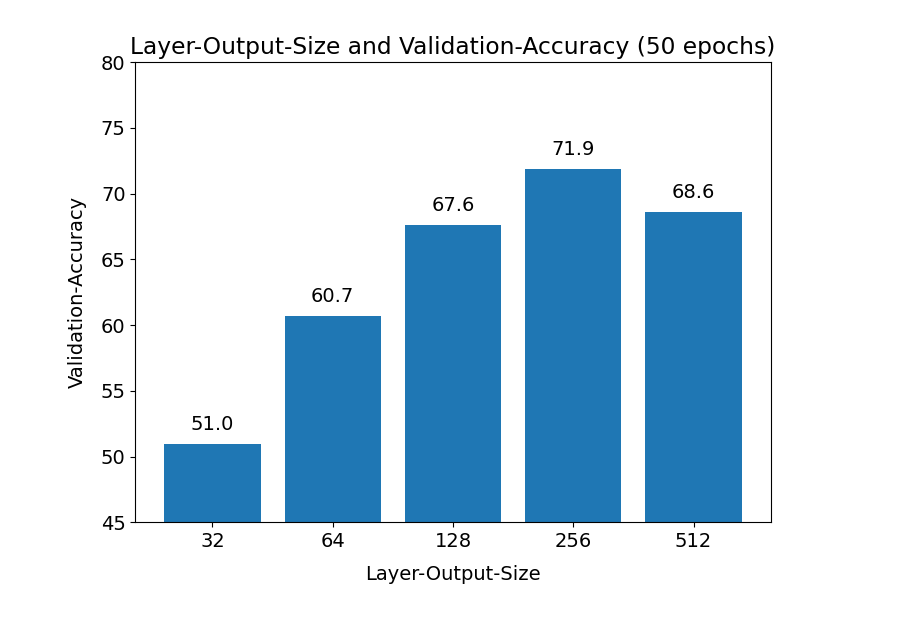
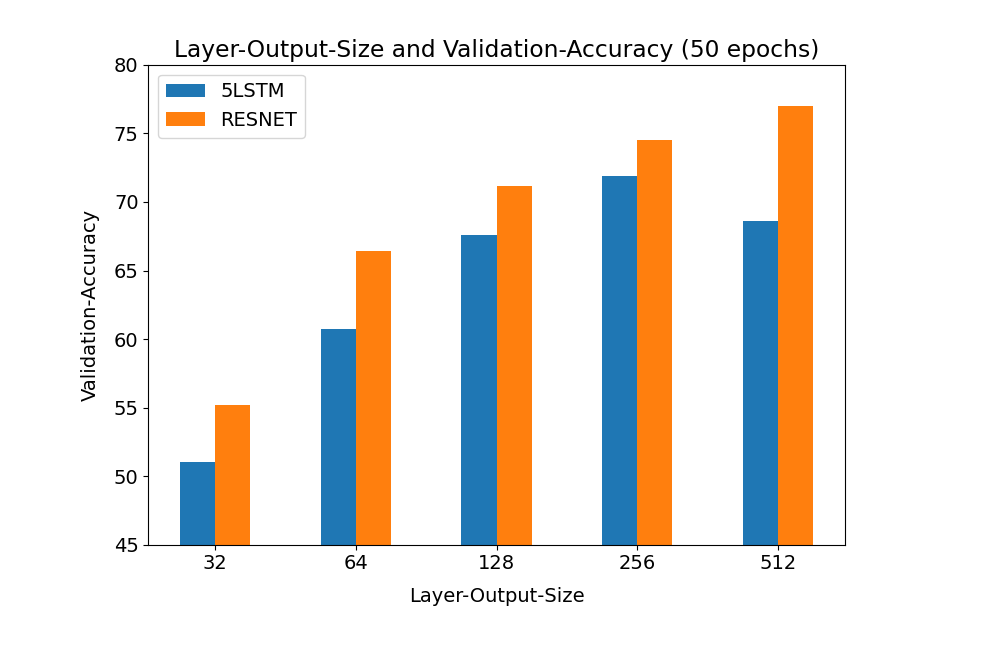
Updated UNIT-Graph

diff --git a/train_mfcc.py b/train_mfcc.py
@@ -42,7 +42,7 @@ WINDOW_SIZE = 0.8
 WINDOW_STEP = 0.1
 
 # Units for Training
-UNITS = 32
+UNITS = 256
 
 NUMCEP = 13
 NUMFILT = 26
@@ -58,36 +58,13 @@ PATH_WEIGHTS = "/home/smu/Desktop/RNN/temp/"
 # class_names
 CLASSNAMES = ['Wut', 'Langeweile', 'Ekel', 'Angst', 'Freude', 'Trauer', 'Neutral']
 
-os.chdir("/home/smu/Desktop/RNN/audiodata/own_sixseconds")
-
-print("Generating features from own recordings ...")
-
-for aud in tqdm(glob.glob("*.wav")):
-    (rate,sig) = wav.read(aud)
-    mfcc_feat = mfcc(sig, rate, numcep=NUMCEP, nfilt=NUMFILT, winlen=WINDOW_SIZE, winstep=WINDOW_STEP, nfft=NFFT, preemph=PREEMPH)
-    emotion = "N"
-    if "W" in aud:
-        emotion = "W"
-    elif "L" in aud:
-        emotion = "L"
-    elif "E" in aud:
-        emotion = "E"
-    elif "A" in aud:
-        emotion = "A"
-    elif "F" in aud:
-        emotion = "F"
-    elif "T" in aud:
-        emotion = "T"
-    featurefile = "../../train_data/" + aud + "_" + emotion
-    np.save(featurefile, mfcc_feat)
-
-# os.chdir("/home/smu/Desktop/RNN/audiodata/own_sixseconds_envnoise")
+# os.chdir("/home/smu/Desktop/RNN/audiodata/own_sixseconds")
 #
-# print("Generating features from own recordings with noise ...")
+# print("Generating features from own recordings ...")
 #
 # for aud in tqdm(glob.glob("*.wav")):
 #     (rate,sig) = wav.read(aud)
-#     mfcc_feat = mfcc(sig, rate, winlen=WINDOW_SIZE, winstep=WINDOW_STEP, nfft=NFFT, preemph=PREEMPH)
+#     mfcc_feat = mfcc(sig, rate, numcep=NUMCEP, nfilt=NUMFILT, winlen=WINDOW_SIZE, winstep=WINDOW_STEP, nfft=NFFT, preemph=PREEMPH)
 #     emotion = "N"
 #     if "W" in aud:
 #         emotion = "W"
@@ -101,87 +78,40 @@ for aud in tqdm(glob.glob("*.wav")):
 #         emotion = "F"
 #     elif "T" in aud:
 #         emotion = "T"
-#     featurefile = "../../train_data/" + aud + "___" + emotion
+#     featurefile = "../../train_data/" + aud + "_" + emotion
 #     np.save(featurefile, mfcc_feat)
-
-
-os.chdir("/home/smu/Desktop/RNN/audiodata/emo_sixseconds")
-
-print("Generating features from emoDB ...")
-
-for aud in tqdm(glob.glob("*.wav")):
-    (rate,sig) = wav.read(aud)
-    mfcc_feat = mfcc(sig, rate, numcep=NUMCEP, nfilt=NUMFILT, winlen=WINDOW_SIZE, winstep=WINDOW_STEP, nfft=NFFT, preemph=PREEMPH)
-    emotion = "N"
-    if "W" in aud:
-        emotion = "W"
-    elif "L" in aud:
-        emotion = "L"
-    elif "E" in aud:
-        emotion = "E"
-    elif "A" in aud:
-        emotion = "A"
-    elif "F" in aud:
-        emotion = "F"
-    elif "T" in aud:
-        emotion = "T"
-    featurefile = "../../train_data/" + aud + "_" + emotion
-    np.save(featurefile, mfcc_feat)
-
-# os.chdir("/home/smu/Desktop/RNN/audiodata/emo_sixseconds_envnoise")
 #
-# print("Generating features from emoDB with noise ...")
+# # os.chdir("/home/smu/Desktop/RNN/audiodata/own_sixseconds_envnoise")
+# #
+# # print("Generating features from own recordings with noise ...")
+# #
+# # for aud in tqdm(glob.glob("*.wav")):
+# #     (rate,sig) = wav.read(aud)
+# #     mfcc_feat = mfcc(sig, rate, winlen=WINDOW_SIZE, winstep=WINDOW_STEP, nfft=NFFT, preemph=PREEMPH)
+# #     emotion = "N"
+# #     if "W" in aud:
+# #         emotion = "W"
+# #     elif "L" in aud:
+# #         emotion = "L"
+# #     elif "E" in aud:
+# #         emotion = "E"
+# #     elif "A" in aud:
+# #         emotion = "A"
+# #     elif "F" in aud:
+# #         emotion = "F"
+# #     elif "T" in aud:
+# #         emotion = "T"
+# #     featurefile = "../../train_data/" + aud + "___" + emotion
+# #     np.save(featurefile, mfcc_feat)
+#
+#
+# os.chdir("/home/smu/Desktop/RNN/audiodata/emo_sixseconds")
+#
+# print("Generating features from emoDB ...")
 #
 # for aud in tqdm(glob.glob("*.wav")):
 #     (rate,sig) = wav.read(aud)
-#     mfcc_feat = mfcc(sig, rate, winlen=WINDOW_SIZE, winstep=WINDOW_STEP, nfft=NFFT, preemph=PREEMPH)
-#     emotion = "N"
-#     if "W" in aud:
-#         emotion = "W"
-#     elif "L" in aud:
-#         emotion = "L"
-#     elif "E" in aud:
-#         emotion = "E"
-#     elif "A" in aud:
-#         emotion = "A"
-#     elif "F" in aud:
-#         emotion = "F"
-#     elif "T" mixednoisein aud:
-#         emotion = "T"
-#     featurefile = "../../train_data/" + aud + "___" + emotion
-#     np.save(featurefile, mfcc_feat)
-#
-
-os.chdir("/home/smu/Desktop/RNN/audiodata/zenodo_sixseconds")
-
-print("Generating features from zenodo-database...")
-
-for aud in tqdm(glob.glob("*.wav")):
-    (rate,sig) = wav.read(aud)
-    mfcc_feat = mfcc(sig, rate, numcep=NUMCEP, nfilt=NUMFILT, winlen=WINDOW_SIZE, winstep=WINDOW_STEP, nfft=NFFT, preemph=PREEMPH)
-    emotion = "N"
-    if "W" in aud:
-        emotion = "W"
-    elif "L" in aud:
-        emotion = "L"
-    elif "E" in aud:
-        emotion = "E"
-    elif "A" in aud:
-        emotion = "A"
-    elif "F" in aud:
-        emotion = "F"
-    elif "T" in aud:
-        emotion = "T"
-    featurefile = "../../train_data/" + aud + "_" + emotion
-    np.save(featurefile, mfcc_feat)
-
-# os.chdir("/home/smu/Desktop/RNN/audiodata/zenodo_sixseconds_envnoise")
-#
-# print("Generating features from zenodo-database with noise...")
-#
-# for aud in tqdm(glob.glob("*.wav")):
-#     (rate,sig) = wav.read(aud)
-#     mfcc_feat = mfcc(sig, rate, winlen=WINDOW_SIZE, winstep=WINDOW_STEP, nfft=NFFT, preemph=PREEMPH)
+#     mfcc_feat = mfcc(sig, rate, numcep=NUMCEP, nfilt=NUMFILT, winlen=WINDOW_SIZE, winstep=WINDOW_STEP, nfft=NFFT, preemph=PREEMPH)
 #     emotion = "N"
 #     if "W" in aud:
 #         emotion = "W"
@@ -195,8 +125,78 @@ for aud in tqdm(glob.glob("*.wav")):
 #         emotion = "F"
 #     elif "T" in aud:
 #         emotion = "T"
-#     featurefile = "../../train_data/" + aud + "___" + emotion
+#     featurefile = "../../train_data/" + aud + "_" + emotion
 #     np.save(featurefile, mfcc_feat)
+#
+# # os.chdir("/home/smu/Desktop/RNN/audiodata/emo_sixseconds_envnoise")
+# #
+# # print("Generating features from emoDB with noise ...")
+# #
+# # for aud in tqdm(glob.glob("*.wav")):
+# #     (rate,sig) = wav.read(aud)
+# #     mfcc_feat = mfcc(sig, rate, winlen=WINDOW_SIZE, winstep=WINDOW_STEP, nfft=NFFT, preemph=PREEMPH)
+# #     emotion = "N"
+# #     if "W" in aud:
+# #         emotion = "W"
+# #     elif "L" in aud:
+# #         emotion = "L"
+# #     elif "E" in aud:
+# #         emotion = "E"
+# #     elif "A" in aud:
+# #         emotion = "A"
+# #     elif "F" in aud:
+# #         emotion = "F"
+# #     elif "T" mixednoisein aud:
+# #         emotion = "T"
+# #     featurefile = "../../train_data/" + aud + "___" + emotion
+# #     np.save(featurefile, mfcc_feat)
+# #
+#
+# os.chdir("/home/smu/Desktop/RNN/audiodata/zenodo_sixseconds")
+#
+# print("Generating features from zenodo-database...")
+#
+# for aud in tqdm(glob.glob("*.wav")):
+#     (rate,sig) = wav.read(aud)
+#     mfcc_feat = mfcc(sig, rate, numcep=NUMCEP, nfilt=NUMFILT, winlen=WINDOW_SIZE, winstep=WINDOW_STEP, nfft=NFFT, preemph=PREEMPH)
+#     emotion = "N"
+#     if "W" in aud:
+#         emotion = "W"
+#     elif "L" in aud:
+#         emotion = "L"
+#     elif "E" in aud:
+#         emotion = "E"
+#     elif "A" in aud:
+#         emotion = "A"
+#     elif "F" in aud:
+#         emotion = "F"
+#     elif "T" in aud:
+#         emotion = "T"
+#     featurefile = "../../train_data/" + aud + "_" + emotion
+#     np.save(featurefile, mfcc_feat)
+#
+# # os.chdir("/home/smu/Desktop/RNN/audiodata/zenodo_sixseconds_envnoise")
+# #
+# # print("Generating features from zenodo-database with noise...")
+# #
+# # for aud in tqdm(glob.glob("*.wav")):
+# #     (rate,sig) = wav.read(aud)
+# #     mfcc_feat = mfcc(sig, rate, winlen=WINDOW_SIZE, winstep=WINDOW_STEP, nfft=NFFT, preemph=PREEMPH)
+# #     emotion = "N"
+# #     if "W" in aud:
+# #         emotion = "W"
+# #     elif "L" in aud:
+# #         emotion = "L"
+# #     elif "E" in aud:
+# #         emotion = "E"
+# #     elif "A" in aud:
+# #         emotion = "A"
+# #     elif "F" in aud:
+# #         emotion = "F"
+# #     elif "T" in aud:
+# #         emotion = "T"
+# #     featurefile = "../../train_data/" + aud + "___" + emotion
+# #     np.save(featurefile, mfcc_feat)
 
 cc = 1
 
@@ -392,7 +392,7 @@ while cc < 5:
     print("Generating model ...")
 
     # RESNET
-    input1 = layers.Input(shape=(None, 20))
+    input1 = layers.Input(shape=(None, 13))
     lstm1 = layers.LSTM(UNITS, return_sequences=True)(input1)
     lstm2 = layers.LSTM(UNITS, return_sequences=True)(lstm1)
     merge1 = layers.Concatenate(axis=2)([input1,lstm2])

diff --git a/graphs/units_vs_valacc/units_vs_valacc.py b/graphs/units_vs_valacc/units_vs_valacc.py
@@ -8,36 +8,38 @@ plt.rcParams.update({'font.size': 14})
 
 x=[]
 y=[]
+k=[]
 
 os.chdir("/home/smu/Desktop/RNN/graphs/units_vs_valacc")
 
-with open('units_vs_valacc.csv', 'r') as csvfile:
+with open('units_vs_valacc_5lstm.csv', 'r') as csvfile:
     plots = csv.reader(csvfile, delimiter=',')
     next(plots, None)
     for row in plots:
         x.append(str(row[0]))
         y.append(float(row[7]))
 
+with open('units_vs_valacc_resnet.csv', 'r') as csvfile:
+    plots = csv.reader(csvfile, delimiter=',')
+    next(plots, None)
+    for row in plots:
+        k.append(float(row[7]))
+
 y_pos = np.arange(len(x))
 
 plt.ylim(45,80)
 # Create bars
-plt.bar(y_pos, y)
+
+fig1 = plt.bar(y_pos, y, width=0.25)
+fig2 = plt.bar(y_pos+0.25, k, width=0.25)
 
 # Create names on the x-axis
-plt.xticks(y_pos, x)
-
-for a,b in zip(y_pos,y):
-
-    plt.annotate(b, # this is the text
-                 (a,b), # this is the point to label
-                 textcoords="offset points", # how to position the text
-                 xytext=(0,10), # distance from text to points (x,y)
-                 ha='center') # horizontal alignment can be left, right or center
+plt.xticks(y_pos+0.125, x)
 
 plt.title('Layer-Output-Size and Validation-Accuracy (50 epochs)')
 plt.xlabel('Layer-Output-Size',labelpad=10)
 plt.ylabel('Validation-Accuracy',labelpad=10)
+plt.legend(('5LSTM', 'RESNET'))
 plt.tight_layout()
 
 # Show graphic
